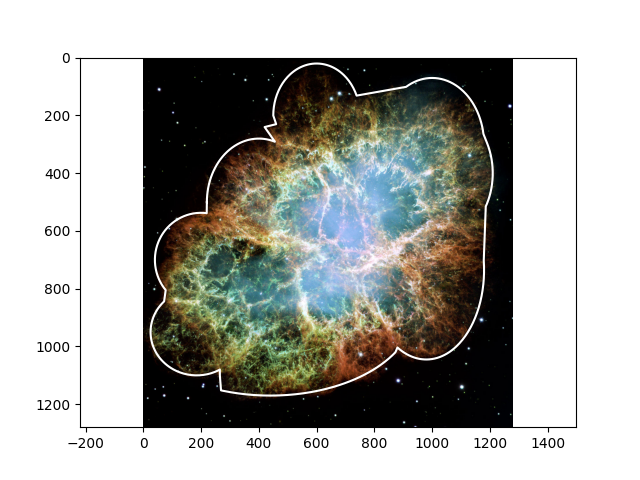
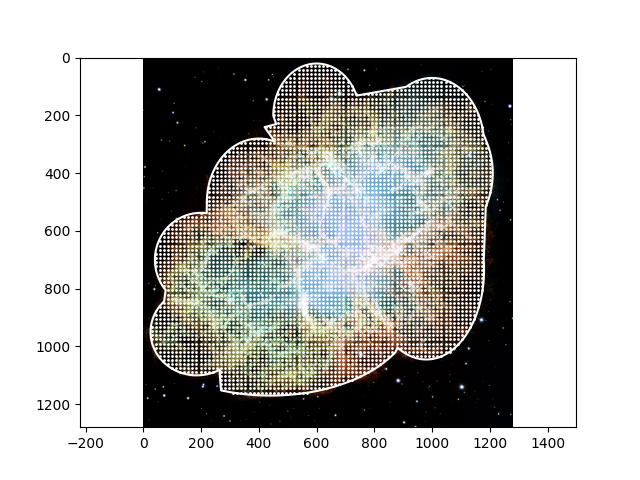
2313321

Changed region(s): [[0.2188, 0.125, 0.7812, 0.8438]]

diff --git a/homework_crab_nebula.py b/homework_crab_nebula.py
@@ -1,5 +1,6 @@
 import matplotlib.pyplot as plt
 from scipy import interpolate
+import shapely.geometry as geom
 import numpy as np
 
 image = plt.imread('crab.jpg')
@@ -86,6 +87,22 @@ y = np.append(y, y1)
 spline_coords, figure_spline_part = interpolate.splprep([x, y], s=0)
 spline_curve = interpolate.splev(figure_spline_part, spline_coords)
 
-plt.plot(spline_curve[0], spline_curve[1], 'w')
 plt.axis('equal')
+plt.plot(spline_curve[0], spline_curve[1], 'w')
+
+curve_coords = []
+for i in range(len(spline_curve[0])):
+    curve_coords.append([spline_curve[0][i], spline_curve[1][i]])
+
+polygon = geom.Polygon(curve_coords)
+points_number_per_side = 100
+x_pictures_limits = [0, 1400]
+y_pictures_limits = [1400, 0]
+
+for x_point_coord in np.linspace(*x_pictures_limits, points_number_per_side):
+    for y_point_coord in np.linspace(*y_pictures_limits, points_number_per_side):
+        p = geom.Point(x_point_coord, y_point_coord)
+        if p.within(polygon):
+            plt.plot(x_point_coord, y_point_coord, 'wo', ms = 1) 
+
 plt.savefig('Crab_HOMEWORK.png')

diff --git a/homework_horse_nebula.py b/homework_horse_nebula.py
@@ -95,6 +95,18 @@ b = [350, 320]
 x = np.append(x, a)
 y = np.append(y, b)
 
+a = 0
+b = 350
+
+x = np.append(x, a)
+y = np.append(y, b)
+
+a = 4
+b = 290
+
+x = np.append(x, a)
+y = np.append(y, b)
+
 spline_coords, figure_spline_part = interpolate.splprep([x, y], s=0)
 spline_curve = interpolate.splev(figure_spline_part, spline_coords)
 
@@ -116,4 +128,4 @@ for x_point_coord in np.linspace(*x_pictures_limits, points_number_per_side):
         if p.within(polygon):
             plt.plot(x_point_coord, y_point_coord, 'wo', ms = 1) 
 
-plt.savefig("Horsehead_inter_NEW.png")
+plt.savefig("Horsehead_HOMEWORK.png")
